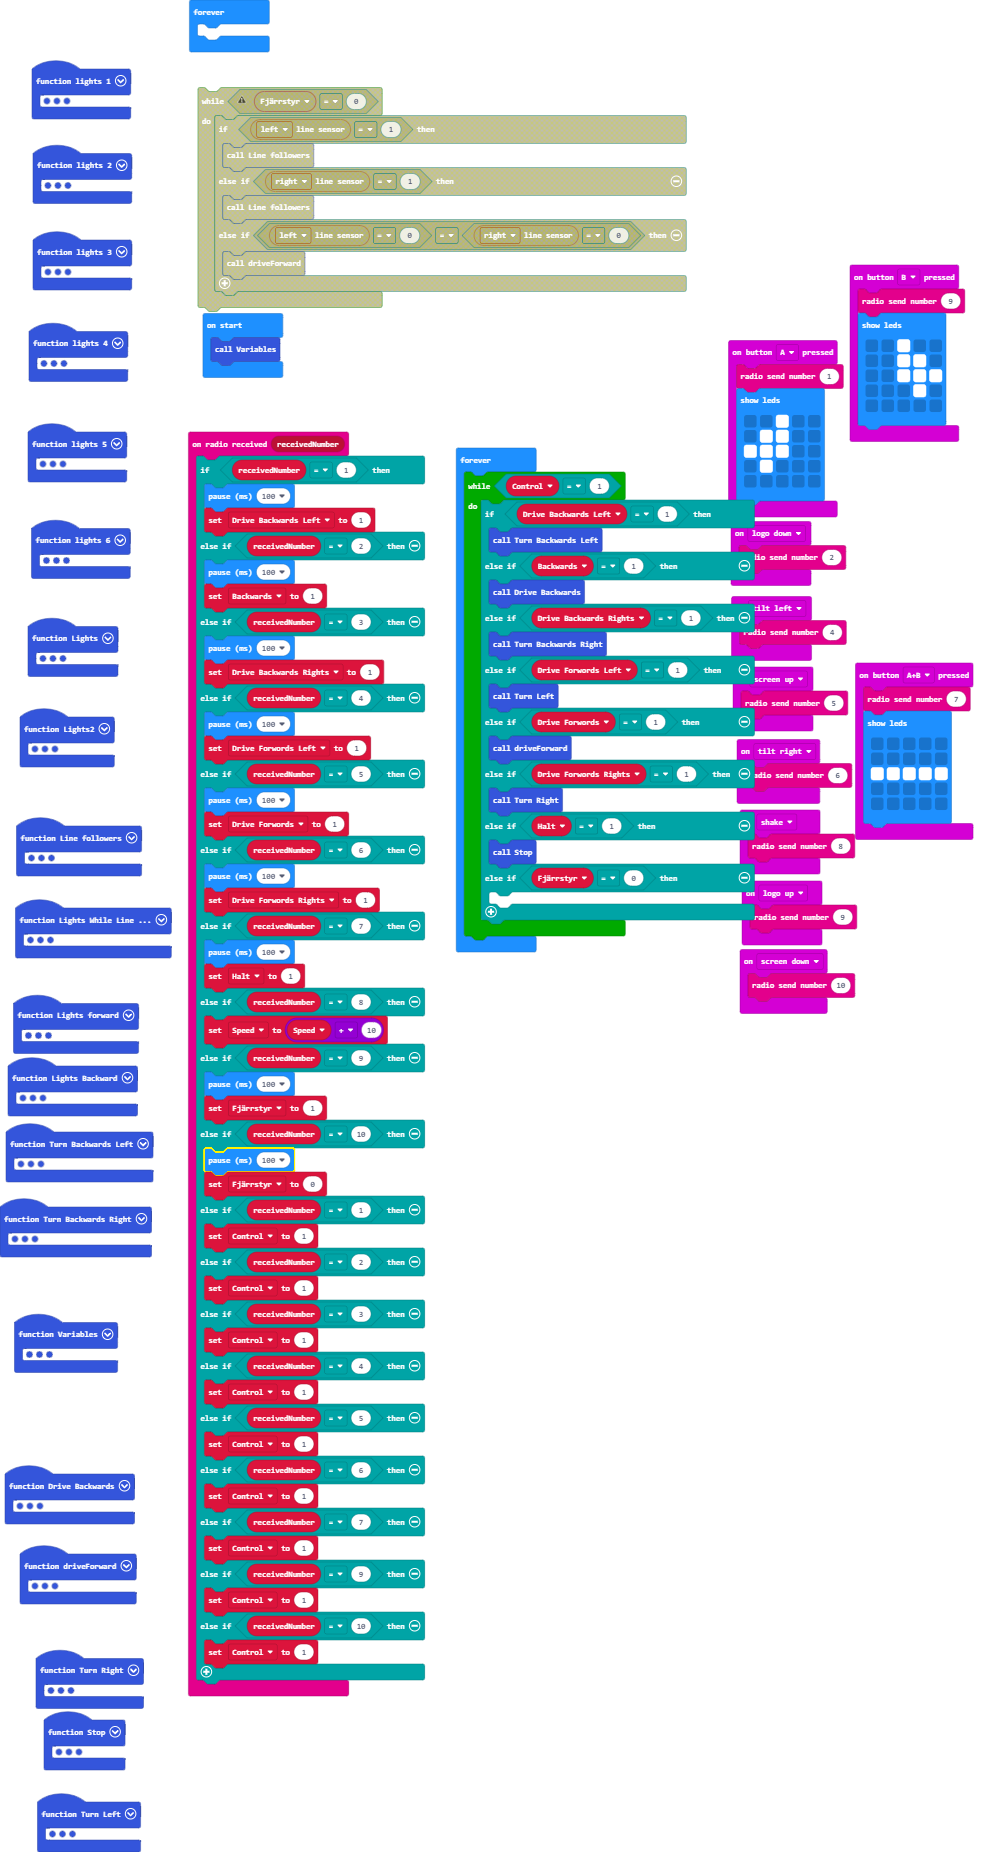
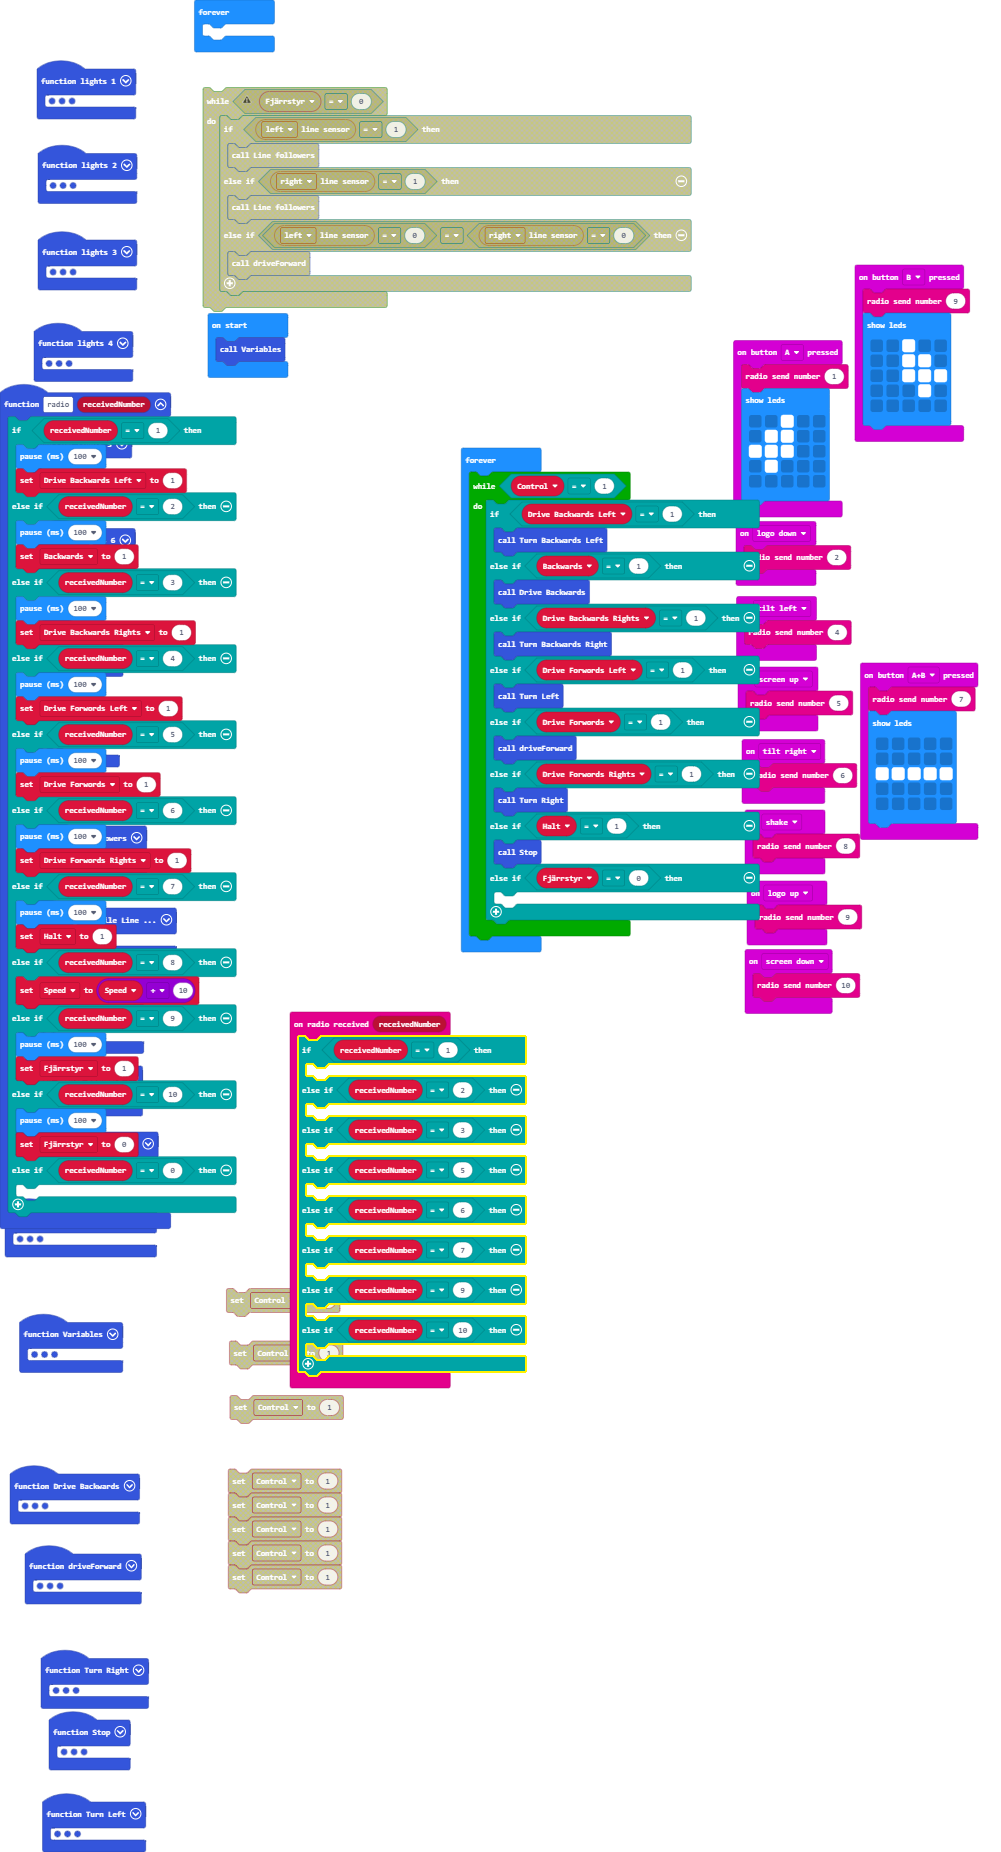
Update main.blocks, main.ts

diff --git a/main.ts b/main.ts
@@ -51,52 +51,21 @@ function lights_6 () {
 }
 radio.onReceivedNumber(function (receivedNumber) {
     if (receivedNumber == 1) {
-        basic.pause(100)
-        Drive_Backwards_Left = 1
+    	
     } else if (receivedNumber == 2) {
-        basic.pause(100)
-        Backwards = 1
+    	
     } else if (receivedNumber == 3) {
-        basic.pause(100)
-        Drive_Backwards_Rights = 1
-    } else if (receivedNumber == 4) {
-        basic.pause(100)
-        Drive_Forwords_Left = 1
+    	
     } else if (receivedNumber == 5) {
-        basic.pause(100)
-        Drive_Forwords = 1
+    	
     } else if (receivedNumber == 6) {
-        basic.pause(100)
-        Drive_Forwords_Rights = 1
+    	
     } else if (receivedNumber == 7) {
-        basic.pause(100)
-        Halt = 1
-    } else if (receivedNumber == 8) {
-        Speed = Speed + 10
+    	
     } else if (receivedNumber == 9) {
-        basic.pause(100)
-        Fjärrstyr = 1
+    	
     } else if (receivedNumber == 10) {
-        basic.pause(100)
-        Fjärrstyr = 0
-    } else if (receivedNumber == 1) {
-        Control = 1
-    } else if (receivedNumber == 2) {
-        Control = 1
-    } else if (receivedNumber == 3) {
-        Control = 1
-    } else if (receivedNumber == 4) {
-        Control = 1
-    } else if (receivedNumber == 5) {
-        Control = 1
-    } else if (receivedNumber == 6) {
-        Control = 1
-    } else if (receivedNumber == 7) {
-        Control = 1
-    } else if (receivedNumber == 9) {
-        Control = 1
-    } else if (receivedNumber == 10) {
-        Control = 1
+    	
     }
 })
 function lights_1 () {
@@ -196,6 +165,40 @@ function Lights2 () {
 input.onGesture(Gesture.ScreenUp, function () {
     radio.sendNumber(5)
 })
+function radio2 (receivedNumber: number) {
+    if (receivedNumber == 1) {
+        basic.pause(100)
+        Drive_Backwards_Left = 1
+    } else if (receivedNumber == 2) {
+        basic.pause(100)
+        Backwards = 1
+    } else if (receivedNumber == 3) {
+        basic.pause(100)
+        Drive_Backwards_Rights = 1
+    } else if (receivedNumber == 4) {
+        basic.pause(100)
+        Drive_Forwords_Left = 1
+    } else if (receivedNumber == 5) {
+        basic.pause(100)
+        Drive_Forwords = 1
+    } else if (receivedNumber == 6) {
+        basic.pause(100)
+        Drive_Forwords_Rights = 1
+    } else if (receivedNumber == 7) {
+        basic.pause(100)
+        Halt = 1
+    } else if (receivedNumber == 8) {
+        Speed = Speed + 10
+    } else if (receivedNumber == 9) {
+        basic.pause(100)
+        Fjärrstyr = 1
+    } else if (receivedNumber == 10) {
+        basic.pause(100)
+        Fjärrstyr = 0
+    } else if (receivedNumber == 0) {
+    	
+    }
+}
 input.onGesture(Gesture.ScreenDown, function () {
     radio.sendNumber(10)
 })
@@ -322,7 +325,6 @@ function Variables () {
     Speed = 10
     Fjärrstyr = 0
 }
-let Control = 0
 let Fjärrstyr = 0
 let Speed = 0
 let Halt = 0
@@ -338,6 +340,7 @@ basic.forever(function () {
 	
 })
 basic.forever(function () {
+    let Control = 0
     while (Control == 1) {
         if (Drive_Backwards_Left == 1) {
             Turn_Backwards_Left()
